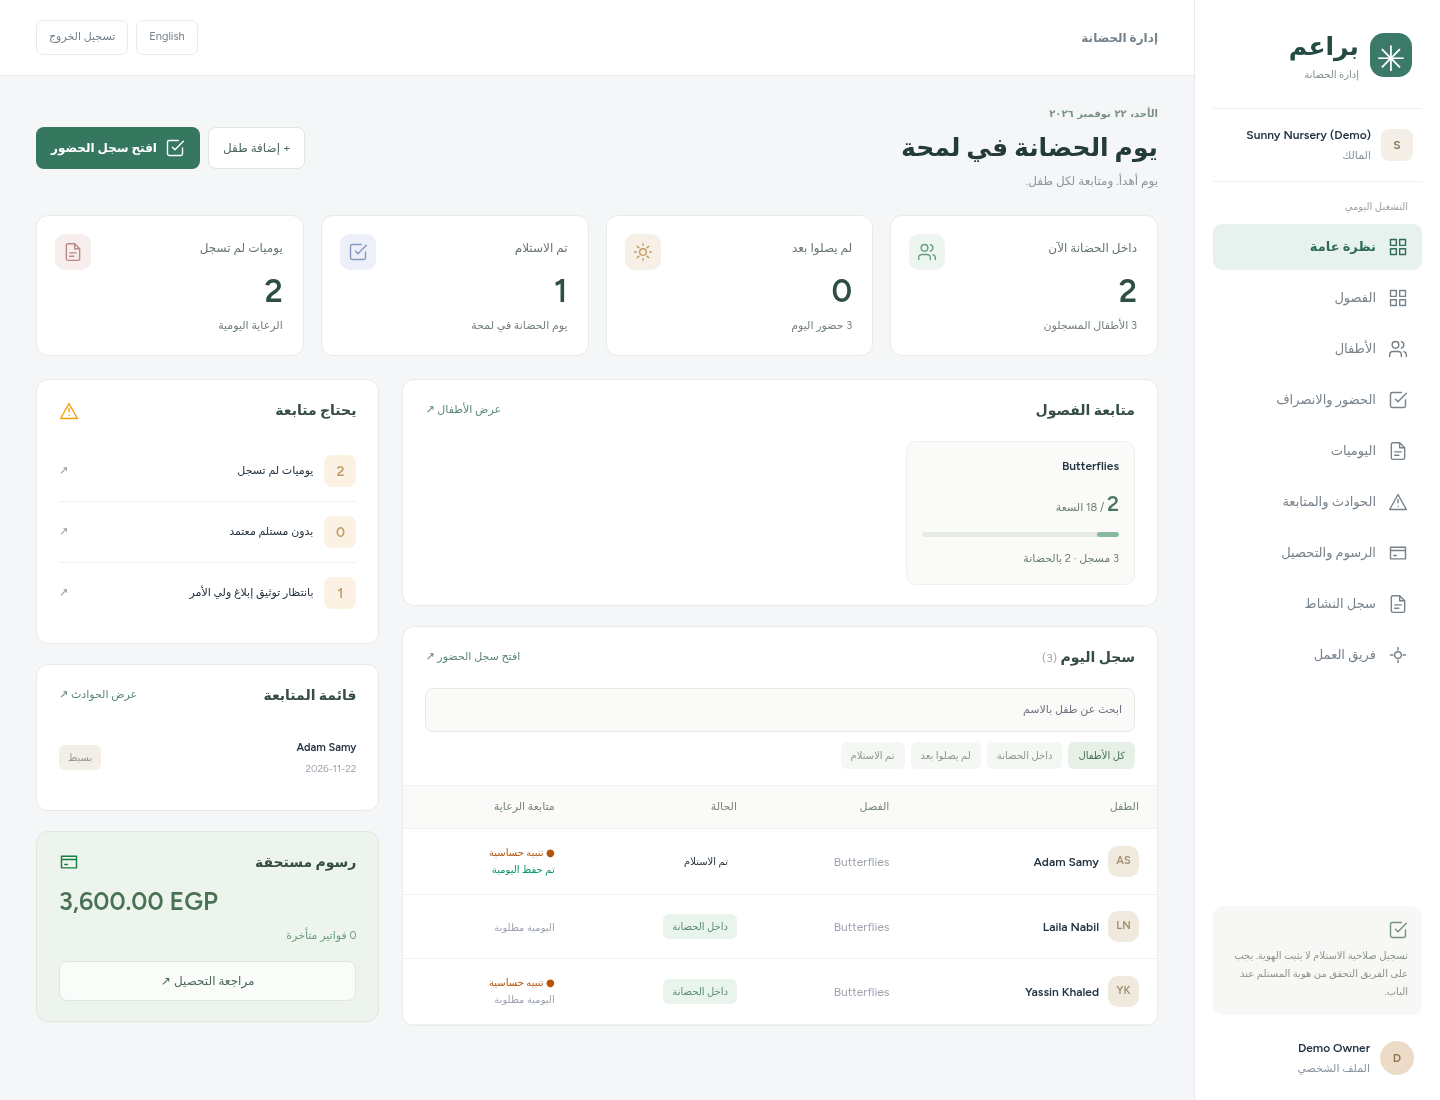
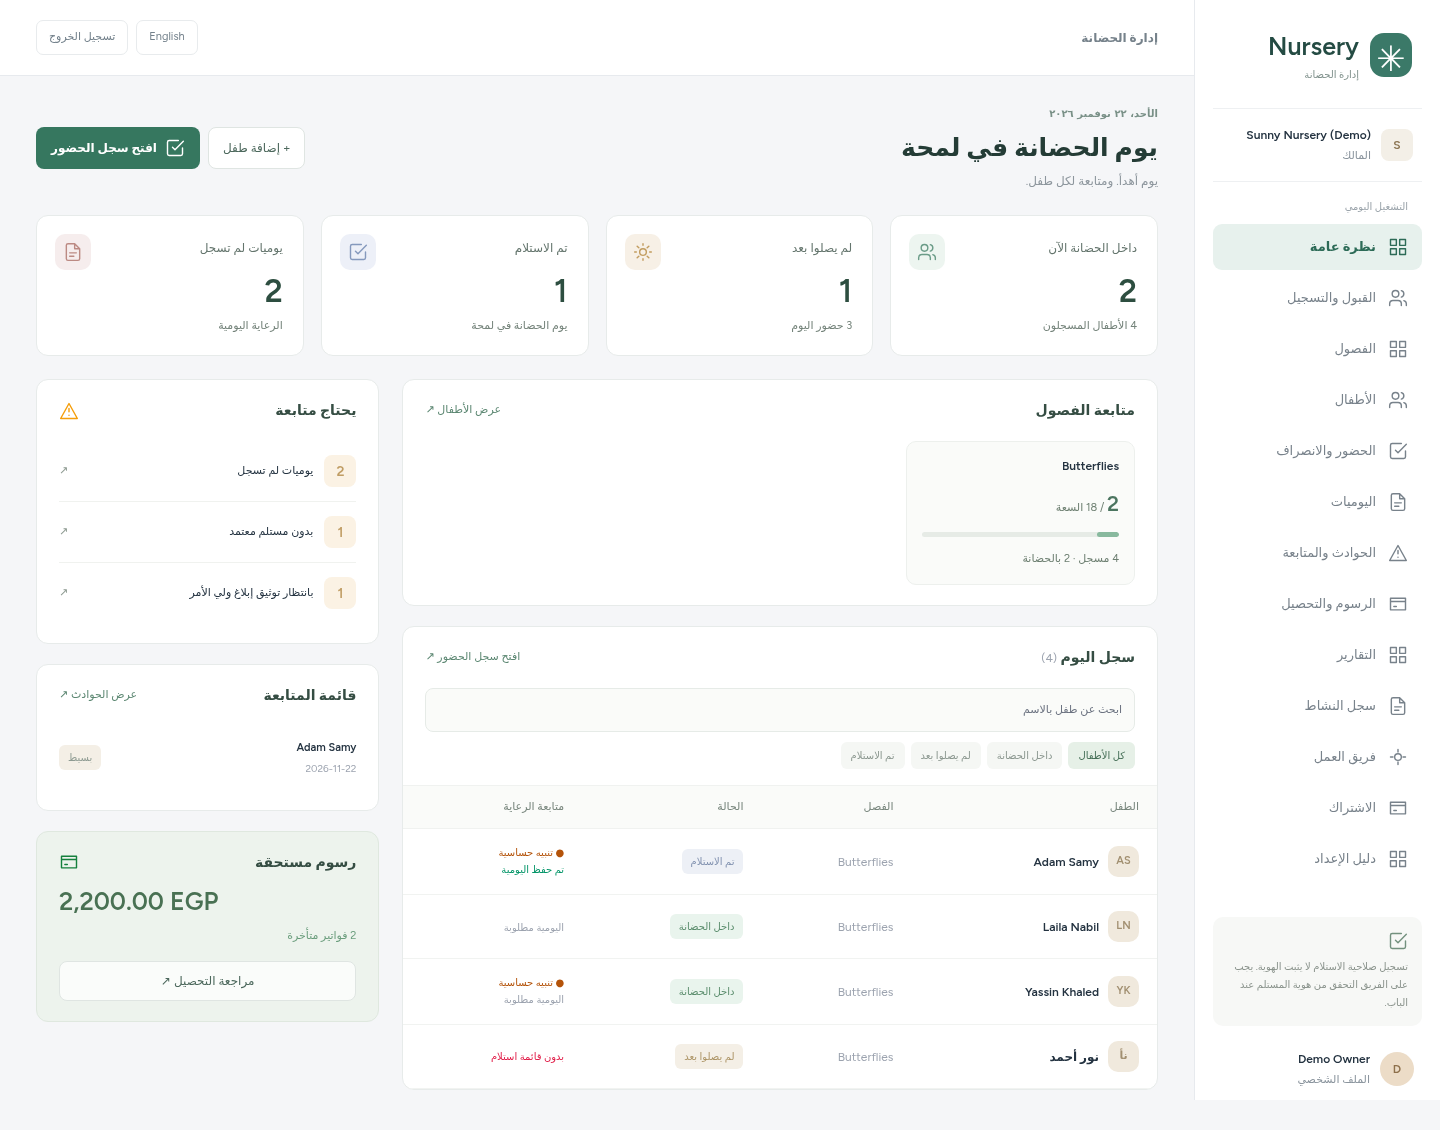
Apply approved Nursery brand and clarify resumed setup progress

diff --git a/resources/js/Pages/Welcome.vue b/resources/js/Pages/Welcome.vue
@@ -78,8 +78,8 @@ function submit() {
     <Head
         :title="
             L(
-                'براعم | يوم حضانة أهدأ، وإدارة أوضح',
-                'Baraim | A calmer nursery day',
+                'Nursery | يوم حضانة أهدأ، وإدارة أوضح',
+                'Nursery | A calmer nursery day',
             )
         "
         ><meta
@@ -96,23 +96,25 @@ function submit() {
             <Link href="/" class="brand"
                 ><span class="brand-mark">✳</span
                 ><span
-                    >{{ L("براعم", "Baraim")
+                    >{{ L("Nursery", "Nursery")
                     }}<small>{{
                         L("مساحة إدارة الحضانة", "Nursery workspace")
                     }}</small></span
                 ></Link
             >
             <nav class="landing-links">
-                <a href="#features">{{ L("داخل براعم", "Inside Baraim") }}</a
-                ><a href="#plans">{{ L("الباقات", "Plans") }}</a
+                <a href="#features">{{
+                    L("داخل Nursery", "Inside Nursery")
+                }}</a><a href="#plans">{{ L("الباقات", "Plans") }}</a
                 ><a href="#questions">{{ L("أسئلة شائعة", "Questions") }}</a>
             </nav>
             <div class="landing-nav-actions">
                 <button @click="toggleLocale" class="landing-language">
-                    {{ locale === "ar" ? "English" : "العربية" }}</button
-                ><Link :href="route('login')" class="saas-secondary">{{
-                    L("دخول الحضانة", "Nursery login")
-                }}</Link>
+                    {{ locale === "ar" ? "English" : "العربية" }}</button><Link
+                    :href="route('login')"
+                    class="saas-secondary"
+                    >{{ L("دخول الحضانة", "Nursery login") }}</Link
+                >
             </div>
         </header>
         <main>
@@ -172,7 +174,7 @@ function submit() {
                         <div class="window-bar">
                             <span class="window-dots">● ● ●</span
                             ><span>{{
-                                L("براعم / نظرة عامة", "Baraim / Overview")
+                                L("Nursery / نظرة عامة", "Nursery / Overview")
                             }}</span
                             ><span>✳</span>
                         </div>
@@ -182,8 +184,8 @@ function submit() {
                             height="1000"
                             :alt="
                                 L(
-                                    'معاينة لوحة براعم ببيانات تمثيلية',
-                                    'Baraim dashboard preview with synthetic data',
+                                    'معاينة لوحة Nursery ببيانات تمثيلية',
+                                    'Nursery dashboard preview with synthetic data',
                                 )
                             "
                         />
@@ -213,8 +215,9 @@ function submit() {
                         }}
                     </p>
                 </div>
-                <span>{{ L("الحضور والاستلام", "Attendance & pickup") }}</span
-                ><span>{{ L("اليوميات والرعاية", "Daily care") }}</span
+                <span>{{
+                    L("الحضور والاستلام", "Attendance & pickup")
+                }}</span><span>{{ L("اليوميات والرعاية", "Daily care") }}</span
                 ><span>{{ L("القبول والرسوم", "Admissions & fees") }}</span>
             </section>
             <section id="features" class="landing-section">
@@ -458,8 +461,8 @@ function submit() {
                         <summary>
                             {{
                                 L(
-                                    "هل تحصّل براعم الرسوم أونلاين؟",
-                                    "Does Baraim collect fees online?",
+                                    "هل تحصّل Nursery الرسوم أونلاين؟",
+                                    "Does Nursery collect fees online?",
                                 )
                             }}
                         </summary>
@@ -522,8 +525,8 @@ function submit() {
                     <p>
                         {{
                             L(
-                                "شارك بيانات التواصل واحتياجات الفريق. يُحفظ الطلب لدى إدارة منصة براعم للمراجعة، دون دفع أو تفعيل تلقائي.",
-                                "Share your contact details and team needs. The Baraim platform team receives the request for review, without a payment or automatic activation.",
+                                "شارك بيانات التواصل واحتياجات الفريق. يُحفظ الطلب لدى إدارة منصة Nursery للمراجعة، دون دفع أو تفعيل تلقائي.",
+                                "Share your contact details and team needs. The Nursery platform team receives the request for review, without a payment or automatic activation.",
                             )
                         }}
                     </p>
@@ -621,8 +624,8 @@ function submit() {
                                 required
                             />{{
                                 L(
-                                    "أوافق على حفظ هذه البيانات لدى إدارة براعم لمراجعة طلبي. لا أدرج بيانات أطفال أو معلومات صحية هنا.",
-                                    "I agree to these details being stored by Baraim’s platform team to review my request. I will not include child or health information here.",
+                                    "أوافق على حفظ هذه البيانات لدى إدارة Nursery لمراجعة طلبي. لا أدرج بيانات أطفال أو معلومات صحية هنا.",
+                                    "I agree to these details being stored by Nursery’s platform team to review my request. I will not include child or health information here.",
                                 )
                             }}</label
                         >
@@ -654,13 +657,13 @@ function submit() {
         <footer class="landing-footer">
             <Link href="/" class="brand"
                 ><span class="brand-mark">✳</span
-                ><span>{{ L("براعم", "Baraim") }}</span></Link
+                ><span>{{ L("Nursery", "Nursery") }}</span></Link
             >
             <p>
                 {{
                     L(
-                        "اسم براعم مؤقت أثناء التطوير. يوم حضانة أهدأ، وإدارة أوضح.",
-                        "Baraim is a working name during development. A calmer nursery day.",
+                        "يوم حضانة أهدأ، وإدارة أوضح.",
+                        "A calmer nursery day. A clearer view.",
                     )
                 }}
             </p>

diff --git a/resources/js/Pages/Setup/Index.vue b/resources/js/Pages/Setup/Index.vue
@@ -73,7 +73,7 @@ const complete = (i) =>
                     <h1>
                         {{
                             L(
-                                "لنجهز يومك الأول في براعم",
+                                "لنجهز يومك الأول في Nursery",
                                 "Let’s prepare your first nursery day",
                             )
                         }}
@@ -81,8 +81,8 @@ const complete = (i) =>
                     <p>
                         {{
                             L(
-                                "تُحفظ خطوتك تلقائياً. ارجع هنا من القائمة في أي وقت. الاسم الحالي للمنتج مؤقت.",
-                                "Your place is saved. Return from the menu any time. The current product name is provisional.",
+                                "تُحفظ خطوتك تلقائياً. ارجع هنا من القائمة في أي وقت.",
+                                "Your place is saved. Return from the menu any time.",
                             )
                         }}
                     </p>
@@ -132,7 +132,8 @@ const complete = (i) =>
                 </nav>
                 <section class="saas-card setup-content">
                     <p class="eyebrow">
-                        {{ L("الخطوة", "Step") }} {{ current + 1 }} / 5
+                        {{ L("الخطوة", "Step") }} {{ current + 1 }}
+                        {{ L("من", "of") }} 5
                     </p>
                     <h2>{{ steps[current] }}</h2>
                     <template v-if="current === 0"

diff --git a/resources/js/app.js b/resources/js/app.js
@@ -1,24 +1,24 @@
-import '../css/app.css';
-import '@fontsource/cairo/400.css';
-import '@fontsource/cairo/500.css';
-import '@fontsource/cairo/600.css';
-import '@fontsource/cairo/700.css';
-import '@fontsource/cairo/800.css';
-import './bootstrap';
+import "../css/app.css";
+import "@fontsource/cairo/400.css";
+import "@fontsource/cairo/500.css";
+import "@fontsource/cairo/600.css";
+import "@fontsource/cairo/700.css";
+import "@fontsource/cairo/800.css";
+import "./bootstrap";
 
-import { createInertiaApp } from '@inertiajs/vue3';
-import { resolvePageComponent } from 'laravel-vite-plugin/inertia-helpers';
-import { createApp, h } from 'vue';
-import { ZiggyVue } from '../../vendor/tightenco/ziggy';
+import { createInertiaApp } from "@inertiajs/vue3";
+import { resolvePageComponent } from "laravel-vite-plugin/inertia-helpers";
+import { createApp, h } from "vue";
+import { ZiggyVue } from "../../vendor/tightenco/ziggy";
 
-const appName = import.meta.env.VITE_APP_NAME || 'Baraim';
+const appName = "Nursery";
 
 createInertiaApp({
     title: (title) => `${title} - ${appName}`,
     resolve: (name) =>
         resolvePageComponent(
             `./Pages/${name}.vue`,
-            import.meta.glob('./Pages/**/*.vue'),
+            import.meta.glob("./Pages/**/*.vue"),
         ),
     setup({ el, App, props, plugin }) {
         return createApp({ render: () => h(App, props) })
@@ -27,6 +27,6 @@ createInertiaApp({
             .mount(el);
     },
     progress: {
-        color: '#4B5563',
+        color: "#4B5563",
     },
 });

diff --git a/resources/js/Pages/Platform/Index.vue b/resources/js/Pages/Platform/Index.vue
@@ -99,7 +99,7 @@ function filter() {
         ><header class="ops-heading">
             <div>
                 <p class="eyebrow">
-                    {{ L("براعم / إدارة البيع", "Baraim / Sales operations") }}
+                    {{ L("Nursery / إدارة البيع", "Nursery / Sales operations") }}
                 </p>
                 <h1>
                     {{ L("مساحة نمو المنصة", "Platform growth workspace") }}

diff --git a/resources/js/Layouts/PlatformLayout.vue b/resources/js/Layouts/PlatformLayout.vue
@@ -10,7 +10,7 @@ const page = usePage();
             <Link href="/" class="brand"
                 ><span class="brand-mark">✳</span
                 ><span
-                    >{{ locale === "ar" ? "براعم" : "Baraim"
+                    >{{ locale === "ar" ? "Nursery" : "Nursery"
                     }}<small>{{
                         locale === "ar"
                             ? "إدارة منصة البيع"

diff --git a/resources/js/Layouts/GuestLayout.vue b/resources/js/Layouts/GuestLayout.vue
@@ -11,7 +11,7 @@ const { t, locale, toggleLocale } = useI18n();
             <Link href="/" class="brand"
                 ><span class="brand-mark">✳</span
                 ><span
-                    >{{ t("Baraim")
+                    >{{ t("Nursery")
                     }}<small>{{ t("Nursery workspace") }}</small></span
                 ></Link
             ><button class="utility-button" @click="toggleLocale">

diff --git a/resources/js/Components/ApplicationLogo.vue b/resources/js/Components/ApplicationLogo.vue
@@ -5,6 +5,6 @@
             <path d="M4 14c4-5 8-7 12-7s8 2 12 7" stroke="#2fd687" stroke-width="2.5" fill="none" stroke-linecap="round" />
             <circle cx="16" cy="19" r="3.5" fill="#2fd687" />
         </svg>
-        <span class="text-lg font-bold text-navy-900">Baraim</span>
+        <span class="text-lg font-bold text-navy-900">Nursery</span>
     </span>
 </template>

diff --git a/resources/js/Layouts/AuthenticatedLayout.vue b/resources/js/Layouts/AuthenticatedLayout.vue
@@ -47,7 +47,7 @@ const active = (n) =>
             <Link :href="route('dashboard')" class="brand"
                 ><span class="brand-mark">✳</span
                 ><span
-                    >{{ t("Baraim")
+                    >{{ t("Nursery")
                     }}<small>{{ t("Nursery workspace") }}</small></span
                 ></Link
             >

diff --git a/resources/js/Pages/Platform/Login.vue b/resources/js/Pages/Platform/Login.vue
@@ -18,7 +18,7 @@ const form = useForm({ email: "", password: "" });
                 }}
             </p>
             <h1>
-                {{ L("إدارة منصة براعم", "Baraim platform administration") }}
+                {{ L("إدارة منصة Nursery", "Nursery platform administration") }}
             </h1>
             <p>
                 {{

diff --git a/resources/js/lib/i18n.js b/resources/js/lib/i18n.js
@@ -248,7 +248,7 @@ const ar = {
     void: "ملغاة",
     Acknowledged: "تم توثيق الإبلاغ",
     "No classroom": "بدون فصل",
-    Baraim: "براعم",
+    Nursery: "Nursery",
     "Nursery workspace": "إدارة الحضانة",
     Overview: "نظرة عامة",
     Children: "الأطفال",

diff --git a/tests/Feature/CommercialPlatformTest.php b/tests/Feature/CommercialPlatformTest.php
@@ -105,6 +105,24 @@ class CommercialPlatformTest extends TestCase
         $this->assertDatabaseHas('classrooms', ['name' => 'Active']);
         $s->update(['status' => 'suspended']);
         $this->post(route('classrooms.store'), ['name' => 'Suspended'])->assertRedirect(route('dashboard'));
-        $this->assertDatabaseMissing('classrooms',['name' => 'Suspended']);
+        $this->assertDatabaseMissing('classrooms', ['name' => 'Suspended']);
+    }
+
+    public function test_platform_administrator_is_not_a_nursery_staff_login(): void
+    {
+        $this->actingAs($this->admin(), 'platform')->get(route('dashboard'))->assertRedirect(route('login'));
+    }
+
+    public function test_pending_owner_keeps_password_security_logout_and_sales_request_access(): void
+    {
+        $t = $this->createTenant();
+        $u = $this->createUser($t);
+        TenantSubscription::create(['tenant_id' => $t->id, 'status' => 'pending']);
+        $this->actingAs($u, 'web')->get(route('profile.edit'))->assertOk();
+        $this->put(route('password.update'), ['current_password' => 'password', 'password' => 'synthetic-replacement-password', 'password_confirmation' => 'synthetic-replacement-password'])->assertSessionHasNoErrors();
+        $this->assertTrue(Hash::check('synthetic-replacement-password', $u->fresh()->password));
+        $this->post(route('sales.inquiry'), ['nursery_name' => 'Synthetic nursery', 'name' => 'Test owner', 'email' => 'owner@example.test', 'consent' => true])->assertSessionHasNoErrors();
+        $this->post(route('logout'))->assertRedirect('/');
+        $this->assertGuest('web');
     }
 }

diff --git a/config/app.php b/config/app.php
@@ -13,7 +13,7 @@ return [
     |
     */
 
-    'name' => env('APP_NAME', 'Baraim'),
+    'name' => 'Nursery',
 
     /*
     |--------------------------------------------------------------------------
